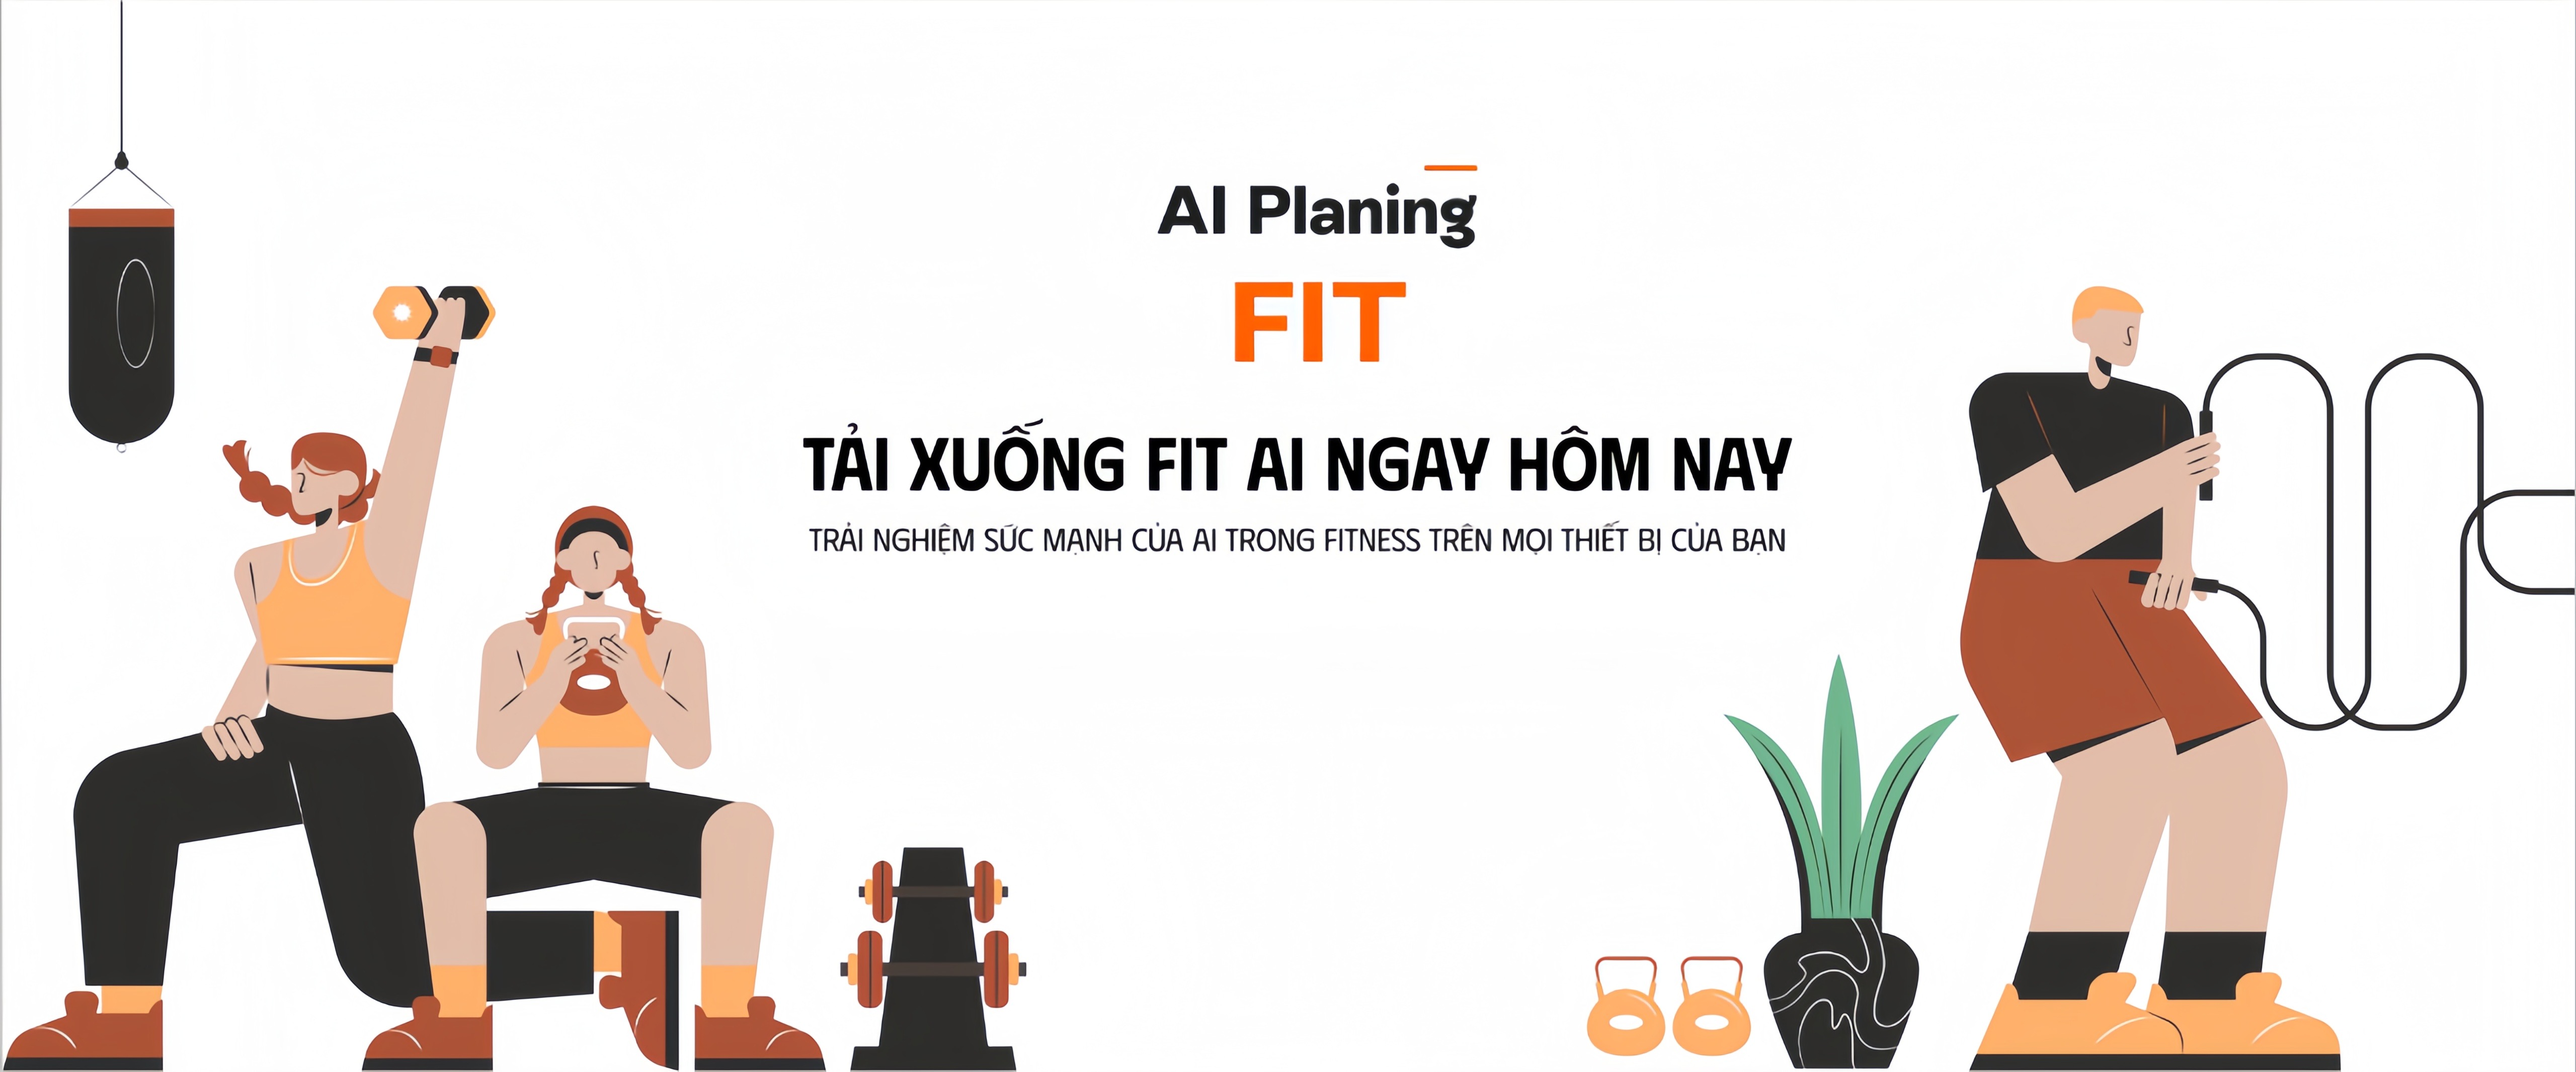
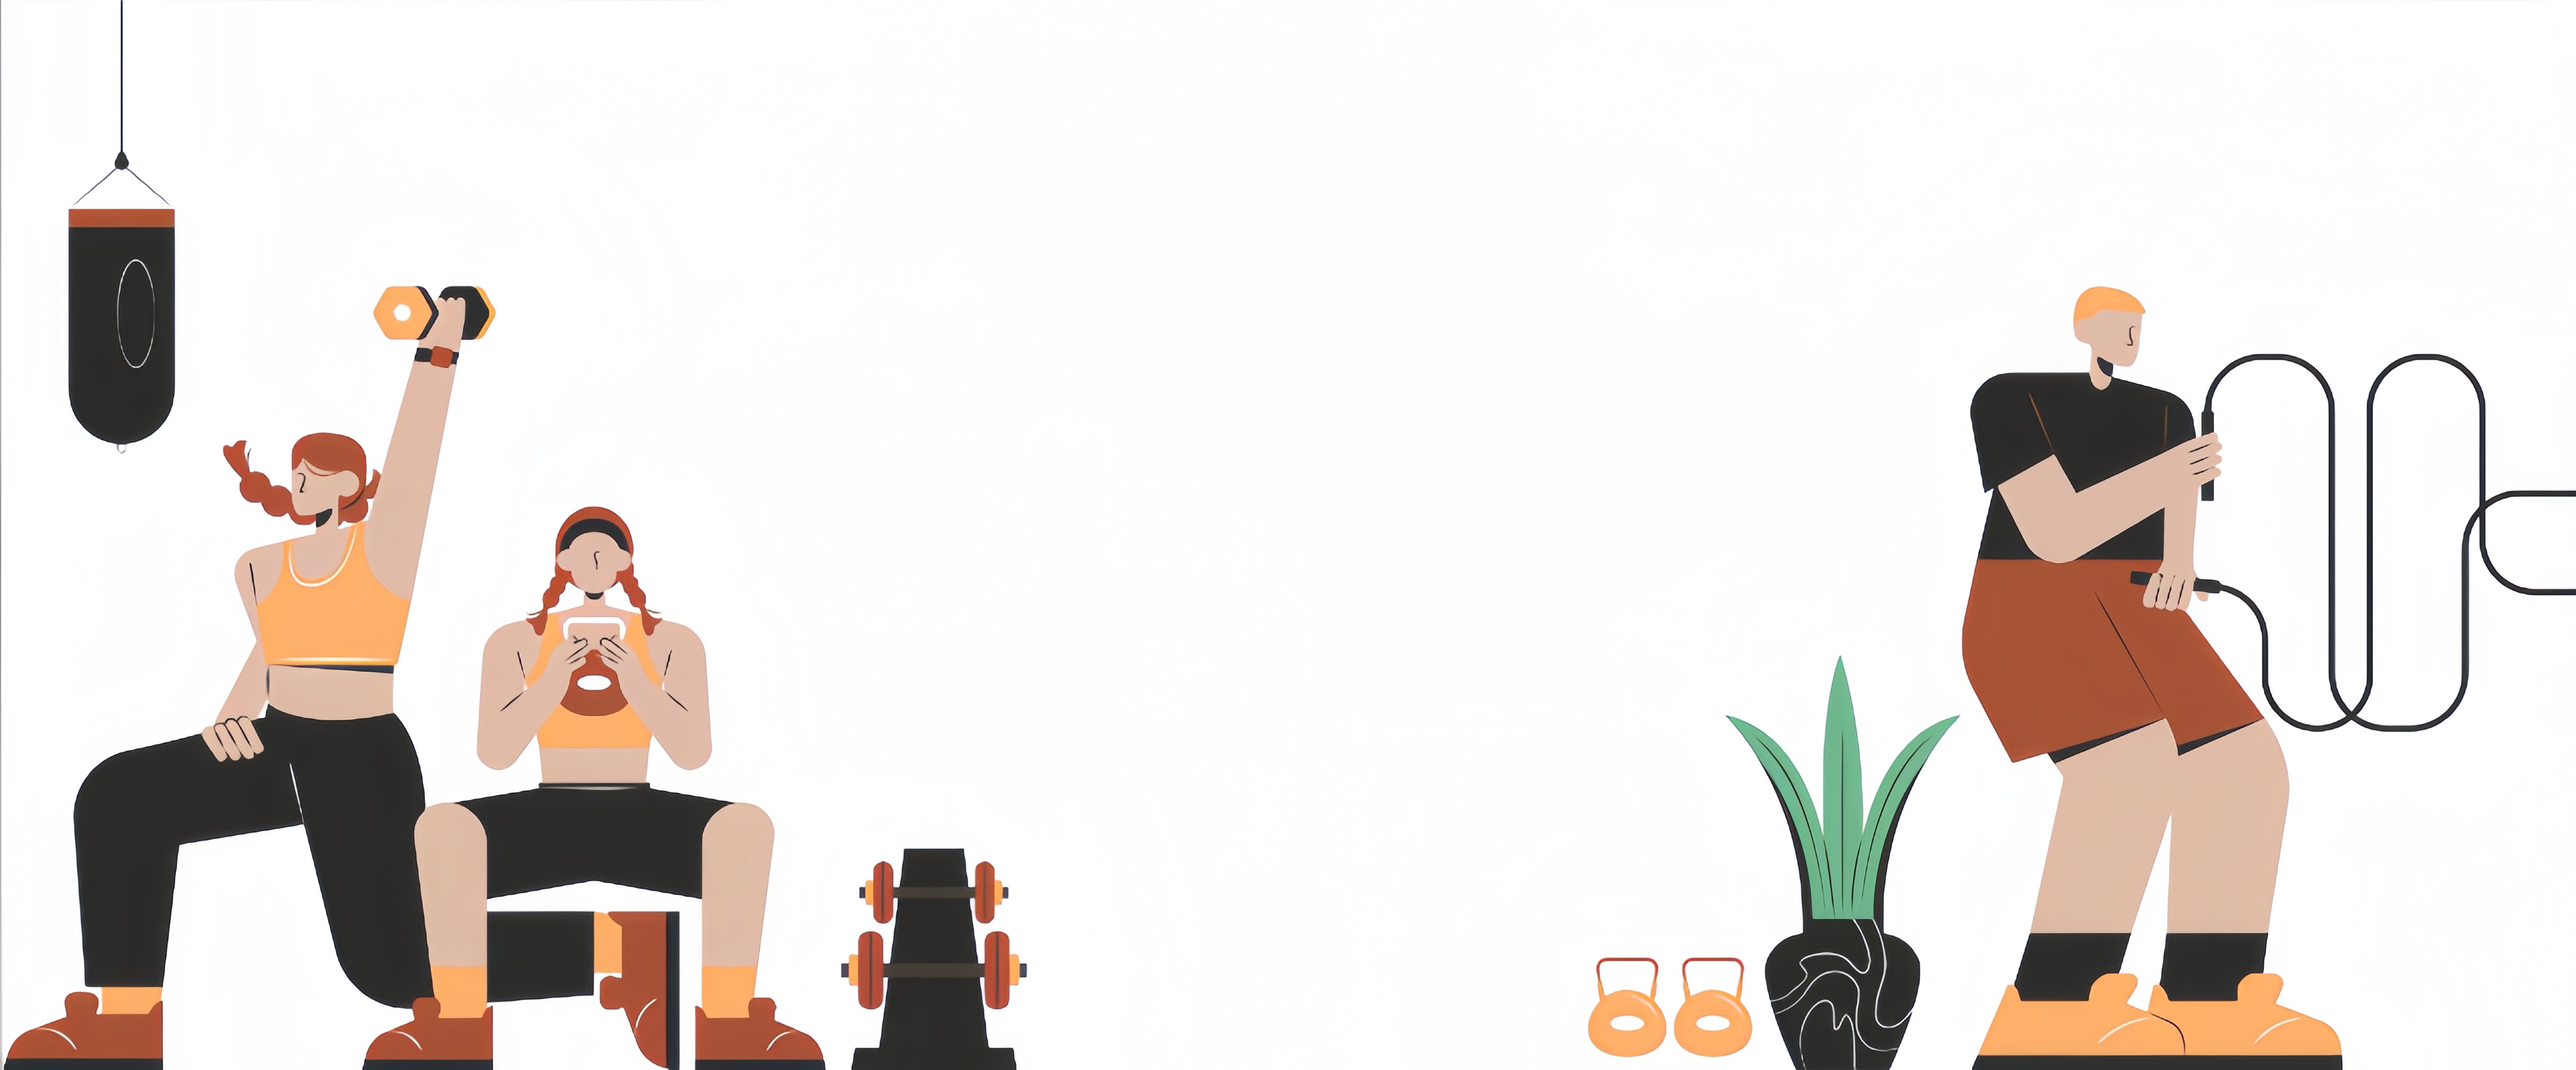
fix

diff --git a/src/app/(marketing)/home/page.tsx b/src/app/(marketing)/home/page.tsx
@@ -255,14 +255,61 @@ export default function MarketingHomePage() {
     <div className="w-full bg-[var(--primay-extralight)]">
       {/* Banner */}
       <div
-        className="w-full relative"
-        style={{ background: "var(--primay-extralight)" }}
+        className="w-full relative min-h-[750px] flex items-center justify-center"
+        style={{ 
+          backgroundImage: "url('/img/homeBanner.png')",
+          backgroundSize: "cover",
+          backgroundPosition: "center",
+          backgroundRepeat: "no-repeat"
+        }}
       >
-        <img
-          src="/img/homeBanner.png"
-          alt="FIT AI Banner"
-          className="w-full h-auto object-cover"
-        />
+        {/* Overlay for better text readability */}
+        <div className="absolute inset-0 bg-black/0"></div>
+        
+        {/* Content */}
+        <div className="relative z-10 text-center max-w-4xl mx-auto px-4">
+          {/* Main Title */}
+          <h1 
+            className="text-6xl md:text-6xl font-bold mb-6"
+            style={{ fontFamily: "Phudu, sans-serif" }}
+          >
+            <span className="text-gray-800">AI Planning</span>
+            <br />
+            <span className="text-orange-500 text-6xl md:text-7xl">FIT</span>
+          </h1>
+          
+          {/* Subtitle */}
+          <h2 className="text-3xl md:text-3xl font-bold text-gray-800 mb-4"
+          style={{ fontFamily: "Phudu, sans-serif" }}
+          >
+            TẢI XUỐNG FIT AI NGAY HÔM NAY
+          </h2>
+          
+          {/* Description */}
+          <p className="text-lg text-gray-700 mb-8 max-w-2xl mx-auto leading-relaxed"
+          style={{ fontFamily: "Phudu, sans-serif" }}
+          >
+            TRẢI NGHIỆM SỨC MẠNH CỦA AI TRONG FITNESS TRÊN MỌI THIẾT BỊ CỦA BẠN
+          </p>
+          
+          {/* CTA Button */}
+          <button
+            onClick={() => {
+              const element = document.getElementById('download');
+              if (element) {
+                const headerHeight = 72;
+                const elementPosition = element.offsetTop - headerHeight;
+                window.scrollTo({
+                  top: elementPosition,
+                  behavior: 'smooth'
+                });
+              }
+            }}
+            className="bg-orange-500 hover:bg-orange-600 text-white font-bold py-4 px-8 rounded-lg text-lg transition-all duration-300 hover:scale-105 hover:shadow-lg active:scale-95"
+          >
+            Tải app ngay
+          </button>
+        </div>
       </div>
 
       {/* Stats Section */}
